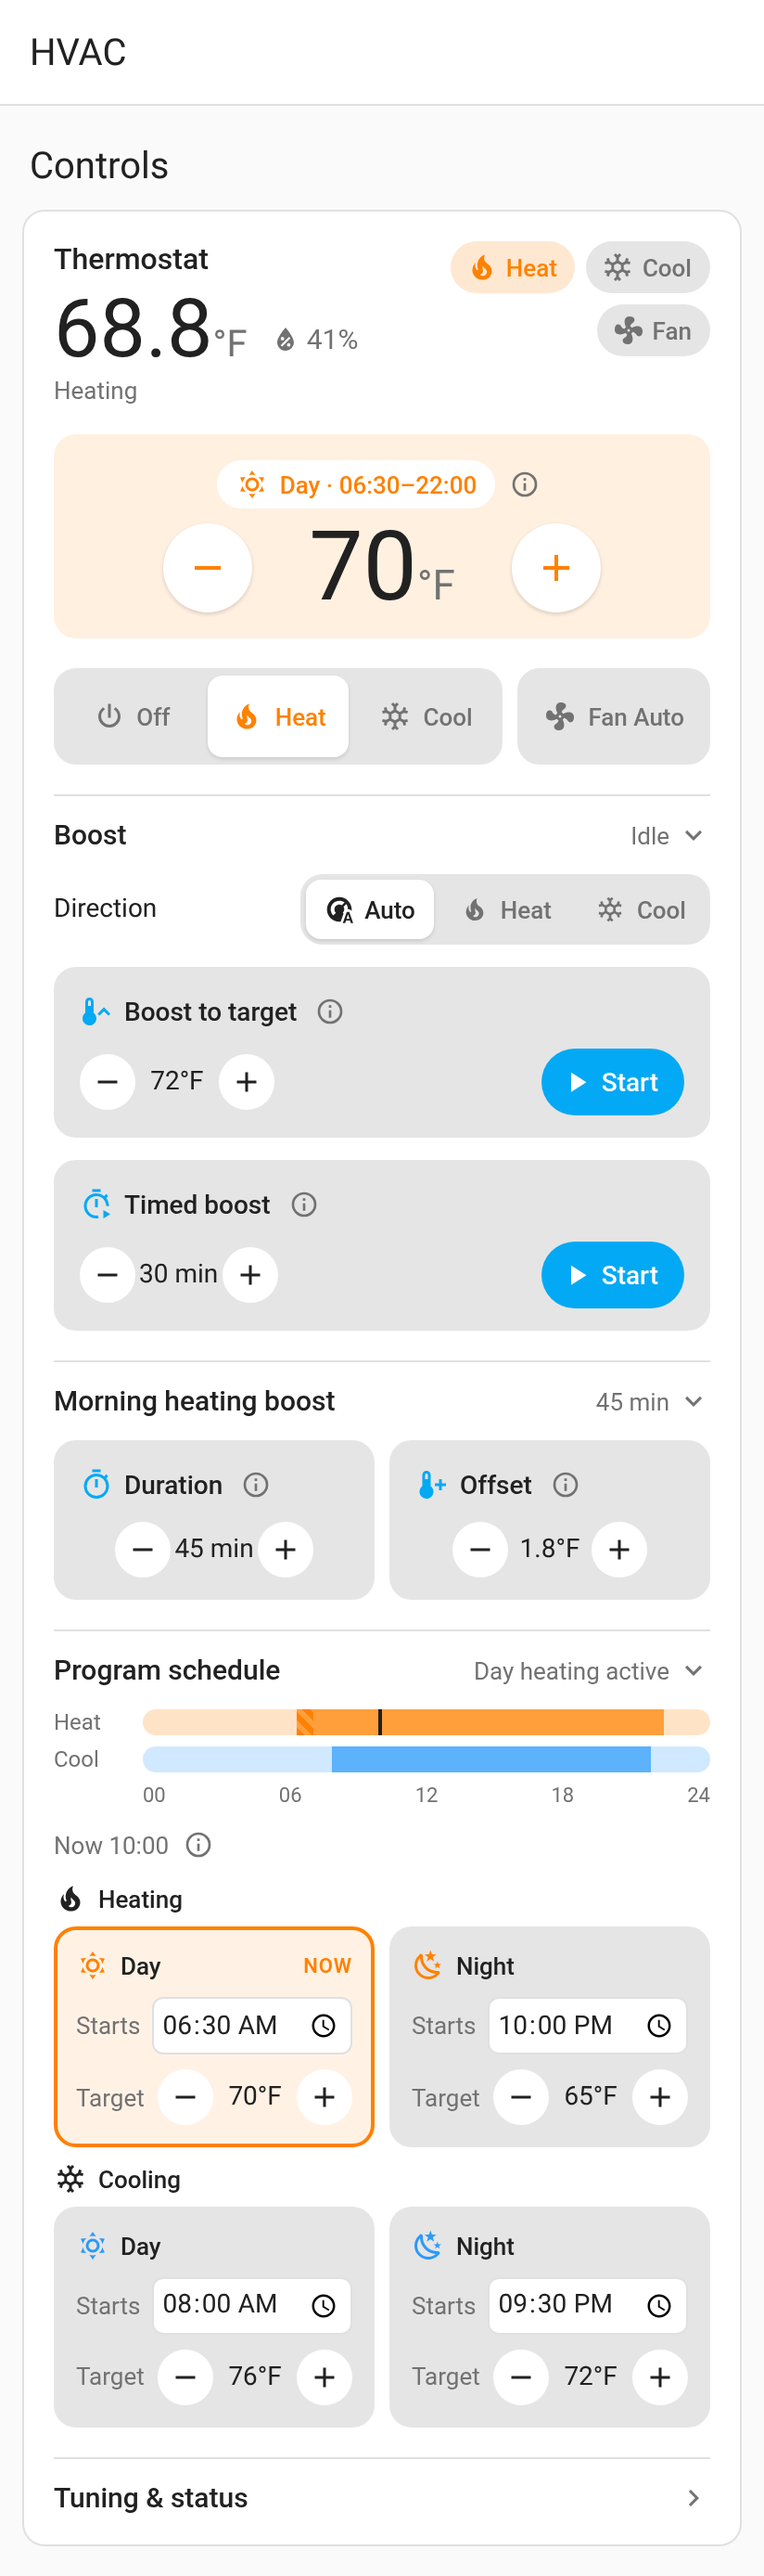
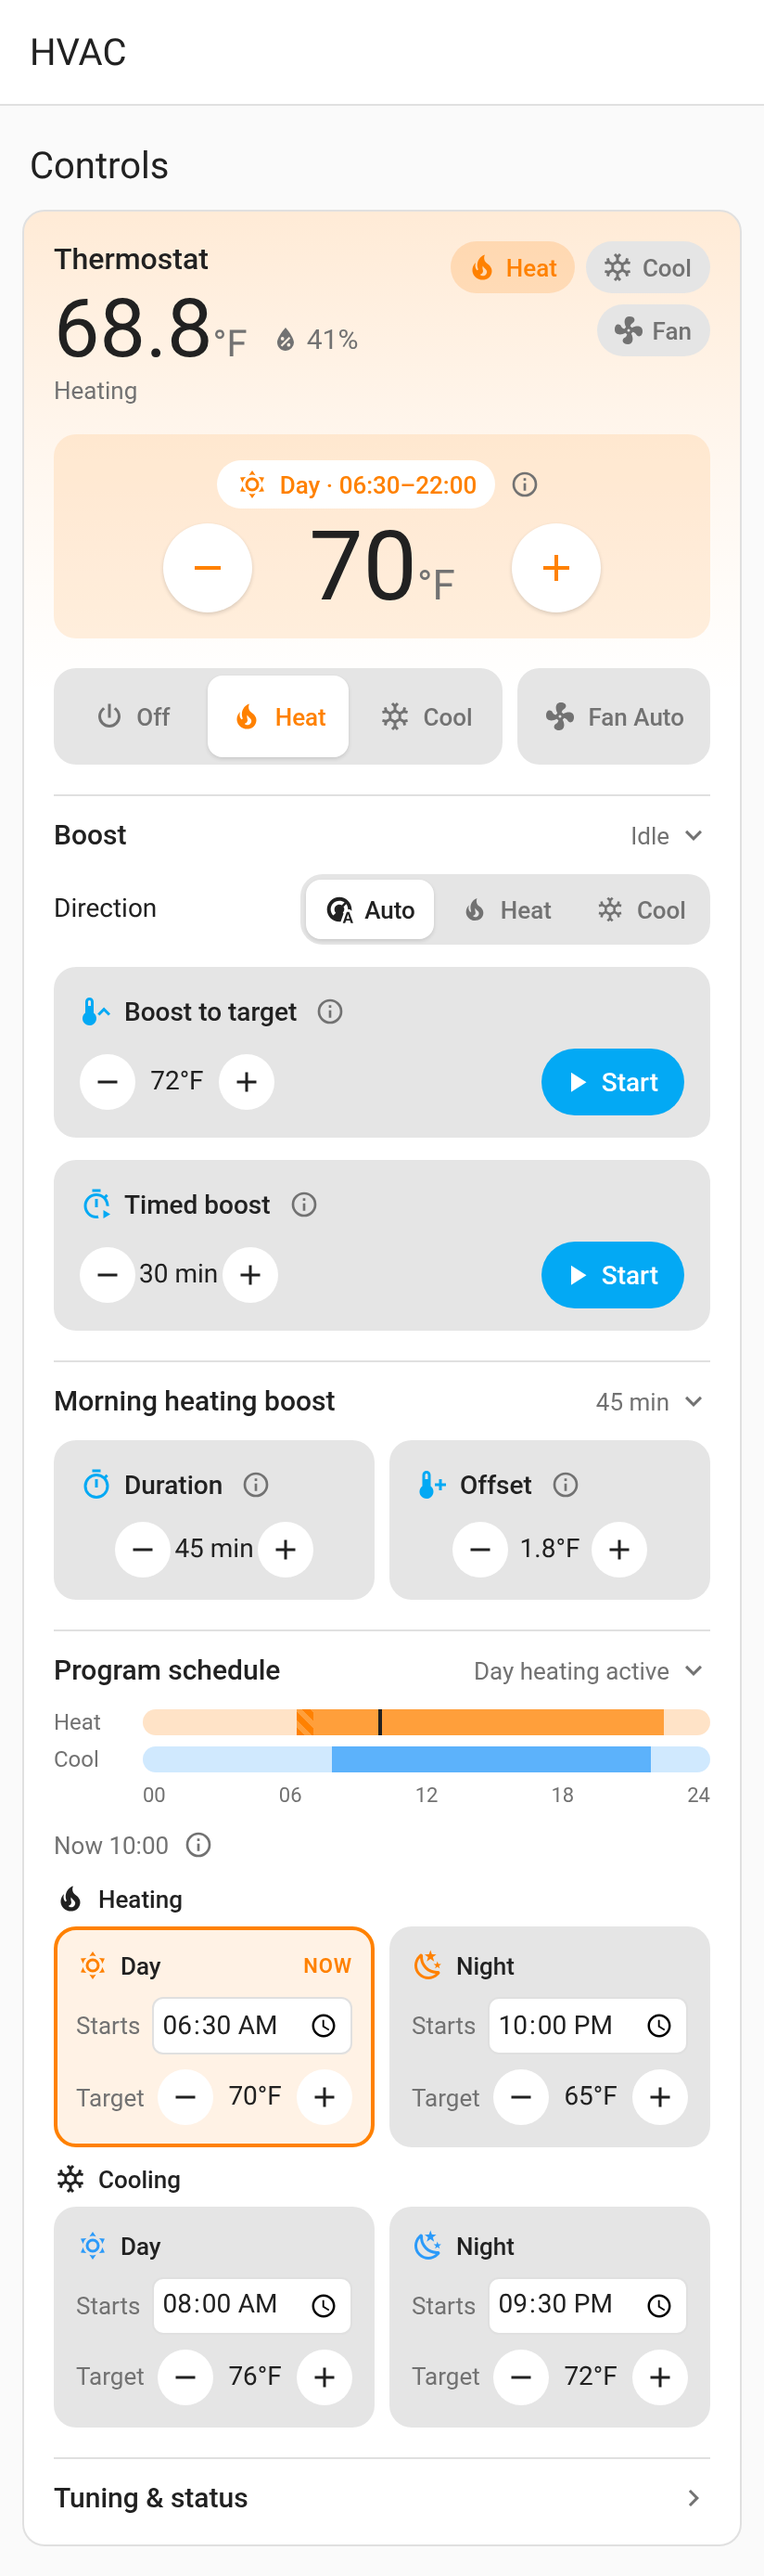
card: tint the top while actively heating or cooling
Like HA's thermostat card: a low-alpha color-mix gradient of --ct-heat or
--ct-cool, keyed on hvac_action (not the selected mode), fading out below
the setpoint. No tint for idle, off, fan-only or unavailable.

Changed region(s): [[0.0303, 0.062, 0.9709, 0.1549]]

diff --git a/firmware/ha/lovelace-card/dist/connie-thermostat-card.js b/firmware/ha/lovelace-card/dist/connie-thermostat-card.js
@@ -15,6 +15,14 @@ var x2=Object.defineProperty;var l2=(e,C,H)=>C in e?x2(e,C,{enumerable:!0,config
   :host([mode='heat']) { --ct-accent: var(--ct-heat); }
   :host([mode='cool']) { --ct-accent: var(--ct-cool); }
   ha-card { overflow: hidden; }
+  /* Soft tint on the top area (header + setpoint) while actively heating/cooling, like HA's
+     thermostat card. Low alpha fading to transparent so text contrast holds in both themes. */
+  :host([action='heating']) { --ct-tint: var(--ct-heat); }
+  :host([action='cooling']) { --ct-tint: var(--ct-cool); }
+  :host([action]) ha-card {
+    background-image: linear-gradient(180deg, color-mix(in srgb, var(--ct-tint) 16%, transparent) 0,
+      color-mix(in srgb, var(--ct-tint) 6%, transparent) 140px, transparent 260px);
+  }
   svg.icon { width: 24px; height: 24px; fill: currentColor; flex: none; }
   svg.sm { width: 18px; height: 18px; }
   .content { padding: 16px; display: flex; flex-direction: column; gap: 16px; }
@@ -204,7 +212,7 @@ var x2=Object.defineProperty;var l2=(e,C,H)=>C in e?x2(e,C,{enumerable:!0,config
     .found { font-size: 13px; color: var(--secondary-text-color); margin-top: 8px; }
     label { display: block; margin: 8px 0; }
     input[type='text'] { width: 100%; box-sizing: border-box; }
-  `);customElements.get("connie-thermostat-card-editor")||customElements.define("connie-thermostat-card-editor",K);var v5="1.0.0",_2=500,m=(e,C="")=>A`<svg class="icon ${C}" viewBox="0 0 24 24" aria-hidden="true">${i2`<path d=${e}></path>`}</svg>`,l=e=>{let C=Number.parseFloat(e?.state);return Number.isFinite(C)?C:null},q=class extends S{static getConfigElement(){return document.createElement("connie-thermostat-card-editor")}static getStubConfig(C){let H=z(C);return H?{device_id:H}:{}}constructor(){super(),this._open={boost:!0,morning:!0,schedule:!0,status:!1},this._tip=null,this._onDocClick=C=>{this._tip&&!C.composedPath().some(H=>H.dataset?.tip===this._tip.id)&&(this._tip=null)},this._onDocKey=C=>{C.key!=="Escape"||!this._tip||(C.stopPropagation(),this._tip=null)},this._pending={},this._timers={},this._sends={},this._inflight={},this._error=null,this.nowMinutes=null}setConfig(C){if(!C||typeof C!="object")throw new Error("Invalid configuration");this._config={show_schedule:!0,show_morning_boost:!0,show_manual_boost:!0,show_status:!0,...C},C.collapsed&&(this._open={...this._open,...Object.fromEntries(C.collapsed.map(H=>[H,!1]))})}getCardSize(){return 10}getGridOptions(){return{columns:12,min_columns:6,rows:"auto"}}connectedCallback(){super.connectedCallback(),document.addEventListener("click",this._onDocClick,!0),document.addEventListener("keydown",this._onDocKey,!0)}disconnectedCallback(){super.disconnectedCallback(),document.removeEventListener("click",this._onDocClick,!0),document.removeEventListener("keydown",this._onDocKey,!0);for(let C of Object.values(this._timers))clearTimeout(C);this._timers={}}get _deviceId(){return this._config?.device_id||z(this.hass)}get _ents(){return i1(this.hass,this._deviceId,this._config?.entities)}_st(C){let H=this._e?.[C];return H?this.hass.states[H]:void 0}get _haUnit(){return this.hass?.config?.unit_system?.temperature||"\xB0C"}_nowMin(){if(Number.isFinite(this.nowMinutes))return this.nowMinutes;let C=this.hass?.config?.time_zone;try{let H=new Intl.DateTimeFormat("en-GB",{timeZone:C,hour:"2-digit",minute:"2-digit",hourCycle:"h23"}).formatToParts(new Date);return Number(H.find(V=>V.type==="hour").value)*60+Number(H.find(V=>V.type==="minute").value)}catch{let H=new Date;return H.getHours()*60+H.getMinutes()}}_val(C,H){return C in this._pending?this._pending[C]:H}willUpdate(C){if(C.has("hass")&&this.hass){this._e=this._ents;let H={...this._pending},V=!1;for(let M of Object.keys(H)){if(this._timers[M])continue;let r=M==="climate"?this._st("climate")?.attributes?.temperature:l(this._st(M));r!=null&&Math.abs(r-H[M])<1e-6&&(delete H[M],V=!0)}V&&(this._pending=H);let L=this._st("climate")?.state;this.setAttribute("mode",L==="heat"||L==="cool"?L:"off")}}_queue(C,H,V){this._pending={...this._pending,[C]:H},clearTimeout(this._timers[C]),this._sends={...this._sends,[C]:()=>V(H)},this._timers[C]=setTimeout(()=>{delete this._timers[C],this._sendNow(C).catch(L=>this._fail(C,L,"Couldn't save the change")),setTimeout(()=>{if(this._pending[C]===H&&!this._timers[C]){let{[C]:L,...M}=this._pending;this._pending=M}},15e3)},_2)}_sendNow(C){let H=this._sends[C];if(delete this._sends[C],!H)return Promise.resolve();let V;try{V=Promise.resolve(H())}catch(M){V=Promise.reject(M)}this._inflight[C]=V;let L=()=>{this._inflight[C]===V&&delete this._inflight[C]};return V.then(L,L),V}async _flush(...C){for(let H of C)this._timers[H]&&(clearTimeout(this._timers[H]),delete this._timers[H],this._sendNow(H)),this._inflight[H]&&await this._inflight[H]}_fail(C,H,V){if(C&&C in this._pending){let{[C]:L,...M}=this._pending;this._pending=M}this._error=`${V}: ${H?.message||H||"unknown error"}`,clearTimeout(this._errTimer),this._errTimer=setTimeout(()=>this._error=null,1e4)}_call(C,H,V){return this.hass.callService(C,H,V)}_setNumber(C,H){this._queue(C,H,V=>this._call("number","set_value",{entity_id:this._e[C],value:V}))}_press(C){return this._call("button","press",{entity_id:this._e[C]})}_setMode(C){this._call("climate","set_hvac_mode",{entity_id:this._e.climate,hvac_mode:C})}_toggleFan(){let H=this._st("climate")?.attributes?.fan_mode==="on";this._call("climate","set_fan_mode",{entity_id:this._e.climate,fan_mode:H?"auto":"on"})}get _spStep(){return this._st("climate")?.attributes?.target_temp_step||(this._haUnit==="\xB0F"?1:.5)}_stepSetpoint(C,H=1){let V=this._st("climate")?.attributes??{},L=this._spStep,M=this._val("climate",V.temperature);if(M==null)return;let r=N1(M+C*H*L,V.min_temp,V.max_temp,L);r!==M&&this._queue("climate",r,i=>this._call("climate","set_temperature",{entity_id:this._e.climate,temperature:i}))}_spKey(C){let H=this._st("climate")?.attributes??{},V=this._val("climate",H.temperature),L=this._spStep,M=t=>Number.isFinite(t)&&Number.isFinite(V)?Math.ceil(Math.abs(V-t)/L):0,i={ArrowUp:[1,1],ArrowRight:[1,1],ArrowDown:[-1,1],ArrowLeft:[-1,1],PageUp:[1,5],PageDown:[-1,5],Home:[-1,M(H.min_temp)],End:[1,M(H.max_temp)]}[C.key];i&&(C.preventDefault(),i[1]>0&&this._stepSetpoint(i[0],i[1]))}_toggle(C){this._open={...this._open,[C]:!this._open[C]}}_fmtNum(C,H,V){let L=V==="\xB0F"||V==="\xB0C",M=L&&Number.isInteger(Number(C.toFixed(H)))?String(Math.round(C)):C.toFixed(H);return V?L?`${M}${V}`:`${M} ${V}`:M}_boostOffsetText(){let C=this._st("morning_boost_offset"),H=l(C);if(H===null||H<=0)return"";let V=$1(C.attributes?.unit_of_measurement,this._haUnit);return` +${this._fmtNum(H*V,1,V!==1?this._haUnit:C.attributes?.unit_of_measurement??"")}`}_numStepper(C,{delta:H=!1,label:V=""}={}){let L=this._st(C);if(!L)return A`<span class="missing">n/a</span>`;let M=L.attributes??{},r=Number(M.step)||1,i=l(L),t=this._val(C,i),a=i===null,p=H?$1(M.unit_of_measurement,this._haUnit):1,d=H&&p!==1?this._haUnit:M.unit_of_measurement??"",n=t===null?"\u2014":this._fmtNum(t*p,p!==1?1:o1(r),d),x=v=>this._setNumber(C,N1((t??0)+v*r,Number(M.min),Number(M.max),r));return A`<span class="stepper">
+  `);customElements.get("connie-thermostat-card-editor")||customElements.define("connie-thermostat-card-editor",K);var v5="1.0.0",_2=500,m=(e,C="")=>A`<svg class="icon ${C}" viewBox="0 0 24 24" aria-hidden="true">${i2`<path d=${e}></path>`}</svg>`,l=e=>{let C=Number.parseFloat(e?.state);return Number.isFinite(C)?C:null},q=class extends S{static getConfigElement(){return document.createElement("connie-thermostat-card-editor")}static getStubConfig(C){let H=z(C);return H?{device_id:H}:{}}constructor(){super(),this._open={boost:!0,morning:!0,schedule:!0,status:!1},this._tip=null,this._onDocClick=C=>{this._tip&&!C.composedPath().some(H=>H.dataset?.tip===this._tip.id)&&(this._tip=null)},this._onDocKey=C=>{C.key!=="Escape"||!this._tip||(C.stopPropagation(),this._tip=null)},this._pending={},this._timers={},this._sends={},this._inflight={},this._error=null,this.nowMinutes=null}setConfig(C){if(!C||typeof C!="object")throw new Error("Invalid configuration");this._config={show_schedule:!0,show_morning_boost:!0,show_manual_boost:!0,show_status:!0,...C},C.collapsed&&(this._open={...this._open,...Object.fromEntries(C.collapsed.map(H=>[H,!1]))})}getCardSize(){return 10}getGridOptions(){return{columns:12,min_columns:6,rows:"auto"}}connectedCallback(){super.connectedCallback(),document.addEventListener("click",this._onDocClick,!0),document.addEventListener("keydown",this._onDocKey,!0)}disconnectedCallback(){super.disconnectedCallback(),document.removeEventListener("click",this._onDocClick,!0),document.removeEventListener("keydown",this._onDocKey,!0);for(let C of Object.values(this._timers))clearTimeout(C);this._timers={}}get _deviceId(){return this._config?.device_id||z(this.hass)}get _ents(){return i1(this.hass,this._deviceId,this._config?.entities)}_st(C){let H=this._e?.[C];return H?this.hass.states[H]:void 0}get _haUnit(){return this.hass?.config?.unit_system?.temperature||"\xB0C"}_nowMin(){if(Number.isFinite(this.nowMinutes))return this.nowMinutes;let C=this.hass?.config?.time_zone;try{let H=new Intl.DateTimeFormat("en-GB",{timeZone:C,hour:"2-digit",minute:"2-digit",hourCycle:"h23"}).formatToParts(new Date);return Number(H.find(V=>V.type==="hour").value)*60+Number(H.find(V=>V.type==="minute").value)}catch{let H=new Date;return H.getHours()*60+H.getMinutes()}}_val(C,H){return C in this._pending?this._pending[C]:H}willUpdate(C){if(C.has("hass")&&this.hass){this._e=this._ents;let H={...this._pending},V=!1;for(let i of Object.keys(H)){if(this._timers[i])continue;let t=i==="climate"?this._st("climate")?.attributes?.temperature:l(this._st(i));t!=null&&Math.abs(t-H[i])<1e-6&&(delete H[i],V=!0)}V&&(this._pending=H);let L=this._st("climate")?.state;this.setAttribute("mode",L==="heat"||L==="cool"?L:"off");let M=this._st("climate"),r=M&&M.state!=="unavailable"?M.attributes?.hvac_action:null;r==="heating"||r==="cooling"?this.setAttribute("action",r):this.removeAttribute("action")}}_queue(C,H,V){this._pending={...this._pending,[C]:H},clearTimeout(this._timers[C]),this._sends={...this._sends,[C]:()=>V(H)},this._timers[C]=setTimeout(()=>{delete this._timers[C],this._sendNow(C).catch(L=>this._fail(C,L,"Couldn't save the change")),setTimeout(()=>{if(this._pending[C]===H&&!this._timers[C]){let{[C]:L,...M}=this._pending;this._pending=M}},15e3)},_2)}_sendNow(C){let H=this._sends[C];if(delete this._sends[C],!H)return Promise.resolve();let V;try{V=Promise.resolve(H())}catch(M){V=Promise.reject(M)}this._inflight[C]=V;let L=()=>{this._inflight[C]===V&&delete this._inflight[C]};return V.then(L,L),V}async _flush(...C){for(let H of C)this._timers[H]&&(clearTimeout(this._timers[H]),delete this._timers[H],this._sendNow(H)),this._inflight[H]&&await this._inflight[H]}_fail(C,H,V){if(C&&C in this._pending){let{[C]:L,...M}=this._pending;this._pending=M}this._error=`${V}: ${H?.message||H||"unknown error"}`,clearTimeout(this._errTimer),this._errTimer=setTimeout(()=>this._error=null,1e4)}_call(C,H,V){return this.hass.callService(C,H,V)}_setNumber(C,H){this._queue(C,H,V=>this._call("number","set_value",{entity_id:this._e[C],value:V}))}_press(C){return this._call("button","press",{entity_id:this._e[C]})}_setMode(C){this._call("climate","set_hvac_mode",{entity_id:this._e.climate,hvac_mode:C})}_toggleFan(){let H=this._st("climate")?.attributes?.fan_mode==="on";this._call("climate","set_fan_mode",{entity_id:this._e.climate,fan_mode:H?"auto":"on"})}get _spStep(){return this._st("climate")?.attributes?.target_temp_step||(this._haUnit==="\xB0F"?1:.5)}_stepSetpoint(C,H=1){let V=this._st("climate")?.attributes??{},L=this._spStep,M=this._val("climate",V.temperature);if(M==null)return;let r=N1(M+C*H*L,V.min_temp,V.max_temp,L);r!==M&&this._queue("climate",r,i=>this._call("climate","set_temperature",{entity_id:this._e.climate,temperature:i}))}_spKey(C){let H=this._st("climate")?.attributes??{},V=this._val("climate",H.temperature),L=this._spStep,M=t=>Number.isFinite(t)&&Number.isFinite(V)?Math.ceil(Math.abs(V-t)/L):0,i={ArrowUp:[1,1],ArrowRight:[1,1],ArrowDown:[-1,1],ArrowLeft:[-1,1],PageUp:[1,5],PageDown:[-1,5],Home:[-1,M(H.min_temp)],End:[1,M(H.max_temp)]}[C.key];i&&(C.preventDefault(),i[1]>0&&this._stepSetpoint(i[0],i[1]))}_toggle(C){this._open={...this._open,[C]:!this._open[C]}}_fmtNum(C,H,V){let L=V==="\xB0F"||V==="\xB0C",M=L&&Number.isInteger(Number(C.toFixed(H)))?String(Math.round(C)):C.toFixed(H);return V?L?`${M}${V}`:`${M} ${V}`:M}_boostOffsetText(){let C=this._st("morning_boost_offset"),H=l(C);if(H===null||H<=0)return"";let V=$1(C.attributes?.unit_of_measurement,this._haUnit);return` +${this._fmtNum(H*V,1,V!==1?this._haUnit:C.attributes?.unit_of_measurement??"")}`}_numStepper(C,{delta:H=!1,label:V=""}={}){let L=this._st(C);if(!L)return A`<span class="missing">n/a</span>`;let M=L.attributes??{},r=Number(M.step)||1,i=l(L),t=this._val(C,i),a=i===null,p=H?$1(M.unit_of_measurement,this._haUnit):1,d=H&&p!==1?this._haUnit:M.unit_of_measurement??"",n=t===null?"\u2014":this._fmtNum(t*p,p!==1?1:o1(r),d),x=v=>this._setNumber(C,N1((t??0)+v*r,Number(M.min),Number(M.max),r));return A`<span class="stepper">
       <button class="mini" aria-label="Decrease ${V}" ?disabled=${a||t<=Number(M.min)} @click=${()=>x(-1)}>${m(H1)}</button>
       <span class="v ${C in this._pending?"pending":""}" aria-label="${V}: ${n}${C in this._pending?", sending\u2026":""}">${n}</span>
       <button class="mini" aria-label="Increase ${V}" ?disabled=${a||t>=Number(M.max)} @click=${()=>x(1)}>${m(L1)}</button>

diff --git a/firmware/ha/lovelace-card/test/card.test.js b/firmware/ha/lovelace-card/test/card.test.js
@@ -350,6 +350,27 @@ describe('card', () => {
     expect($(el, '.banner.error[role="alert"]')).toBeNull();
   });
 
+  it('tints the top only while actively heating or cooling (hvac_action)', async () => {
+    const el = await mount();
+    const set = async (state, action) => {
+      const h = el.hass;
+      const c = h.states[`climate.${PREFIX}`];
+      el.hass = { ...h, states: { ...h.states, [`climate.${PREFIX}`]: { ...c, state, attributes: { ...c.attributes, hvac_action: action } } } };
+      await el.updateComplete;
+      return el.getAttribute('action');
+    };
+    expect(await set('heat', 'heating')).toBe('heating');
+    expect(await set('cool', 'cooling')).toBe('cooling');
+    expect(await set('heat', 'idle')).toBeNull();
+    expect(await set('off', 'off')).toBeNull();
+    expect(await set('off', 'fan')).toBeNull();
+    expect(await set('unavailable', 'heating')).toBeNull();
+    const css = [customElements.get('connie-thermostat-card').styles].flat().map((x) => x.cssText ?? String(x)).join('');
+    expect(css).toMatch(/:host\(\[action='heating'\]\)\s*\{\s*--ct-tint: var\(--ct-heat\)/);
+    expect(css).toMatch(/:host\(\[action='cooling'\]\)\s*\{\s*--ct-tint: var\(--ct-cool\)/);
+    expect(css).toMatch(/color-mix\(in srgb, var\(--ct-tint\) 16%, transparent\)/);
+  });
+
   it('Start, Stop and Direction are disabled while the thermostat is unavailable', async () => {
     const el = await mount({}, { patch: { [`climate.${PREFIX}`]: { state: 'unavailable' }, [`binary_sensor.${PREFIX}_boost_active`]: { state: 'on' }, [`sensor.${PREFIX}_boost`]: { state: 'Timed_heat' } } });
     const gos = $$(el, '.tile .go');

diff --git a/firmware/ha/lovelace-card/src/styles.js b/firmware/ha/lovelace-card/src/styles.js
@@ -15,6 +15,14 @@ export const cardStyles = css`
   :host([mode='heat']) { --ct-accent: var(--ct-heat); }
   :host([mode='cool']) { --ct-accent: var(--ct-cool); }
   ha-card { overflow: hidden; }
+  /* Soft tint on the top area (header + setpoint) while actively heating/cooling, like HA's
+     thermostat card. Low alpha fading to transparent so text contrast holds in both themes. */
+  :host([action='heating']) { --ct-tint: var(--ct-heat); }
+  :host([action='cooling']) { --ct-tint: var(--ct-cool); }
+  :host([action]) ha-card {
+    background-image: linear-gradient(180deg, color-mix(in srgb, var(--ct-tint) 16%, transparent) 0,
+      color-mix(in srgb, var(--ct-tint) 6%, transparent) 140px, transparent 260px);
+  }
   svg.icon { width: 24px; height: 24px; fill: currentColor; flex: none; }
   svg.sm { width: 18px; height: 18px; }
   .content { padding: 16px; display: flex; flex-direction: column; gap: 16px; }

diff --git a/firmware/ha/lovelace-card/src/connie-thermostat-card.js b/firmware/ha/lovelace-card/src/connie-thermostat-card.js
@@ -160,6 +160,11 @@ export class ConnieThermostatCard extends LitElement {
       if (dirty) this._pending = left;
       const mode = this._st('climate')?.state;
       this.setAttribute('mode', mode === 'heat' || mode === 'cool' ? mode : 'off');
+      // Top-area tint follows what the device is doing right now, not the selected mode.
+      const c = this._st('climate');
+      const act = c && c.state !== 'unavailable' ? c.attributes?.hvac_action : null;
+      if (act === 'heating' || act === 'cooling') this.setAttribute('action', act);
+      else this.removeAttribute('action');
     }
   }
 

diff --git a/firmware/ha/lovelace-card/README.md b/firmware/ha/lovelace-card/README.md
@@ -34,6 +34,9 @@ number tiles with a single card that covers everything the quirk exposes.
   closes on Esc (consumed only when a tooltip was open) or a click elsewhere, opens above its row (the setpoint one opens in place, on click/tap only, and pushes the value down), and is linked with `aria-describedby`.
 * **Warnings** always stay visible: device unavailable, no clock yet (holding the day program), and failed boosts (rejected, failsafe, limit).
 
+While the thermostat is actively heating or cooling (its `hvac_action`), the top of the card
+gets a soft orange or blue tint, like HA's own thermostat card. Idle, off and fan-only show no tint.
+
 ### Units
 Temperatures follow Home Assistant's unit system. HA already converts the climate entity and the
 temperature-class number entities, e.g. to °F. The swing and the morning-boost offset are temperature
